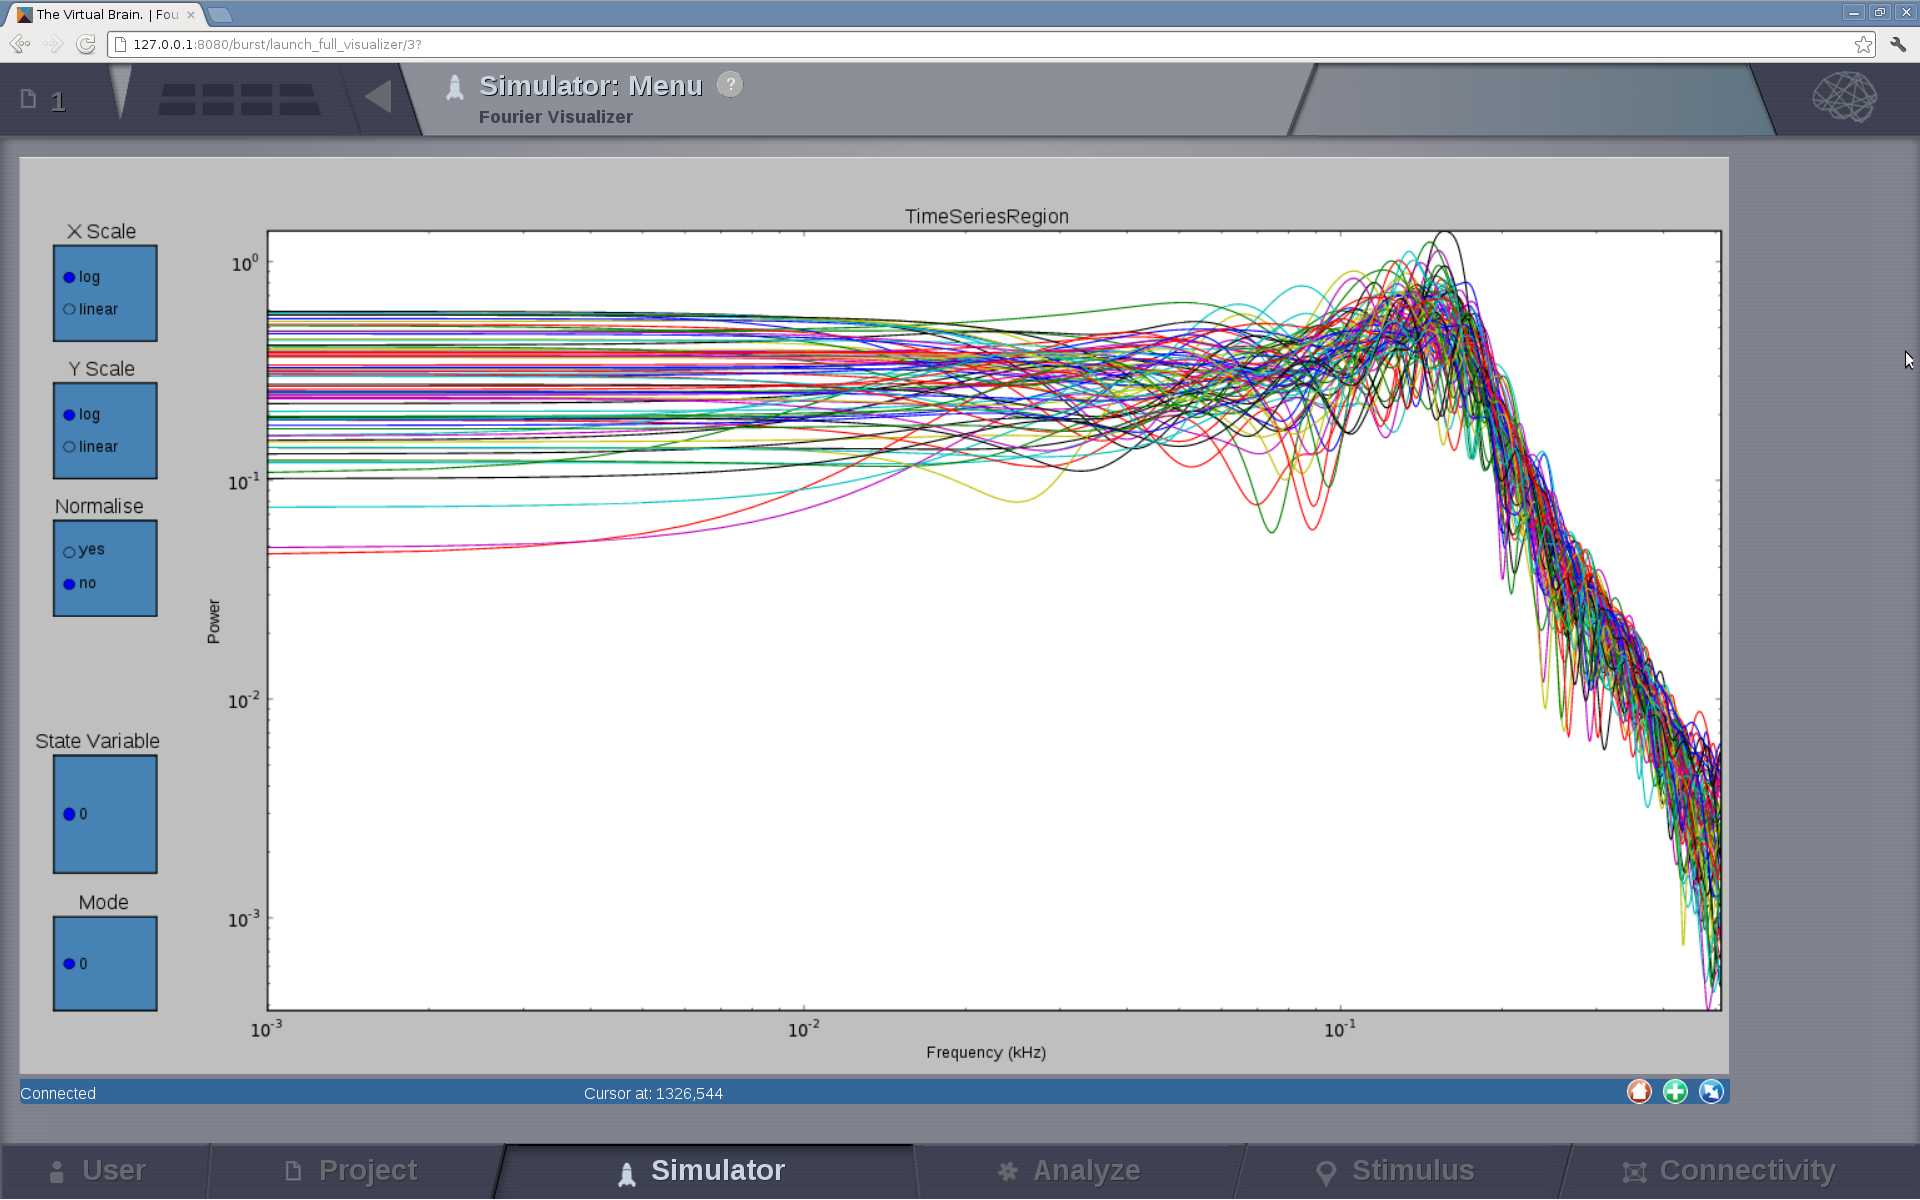
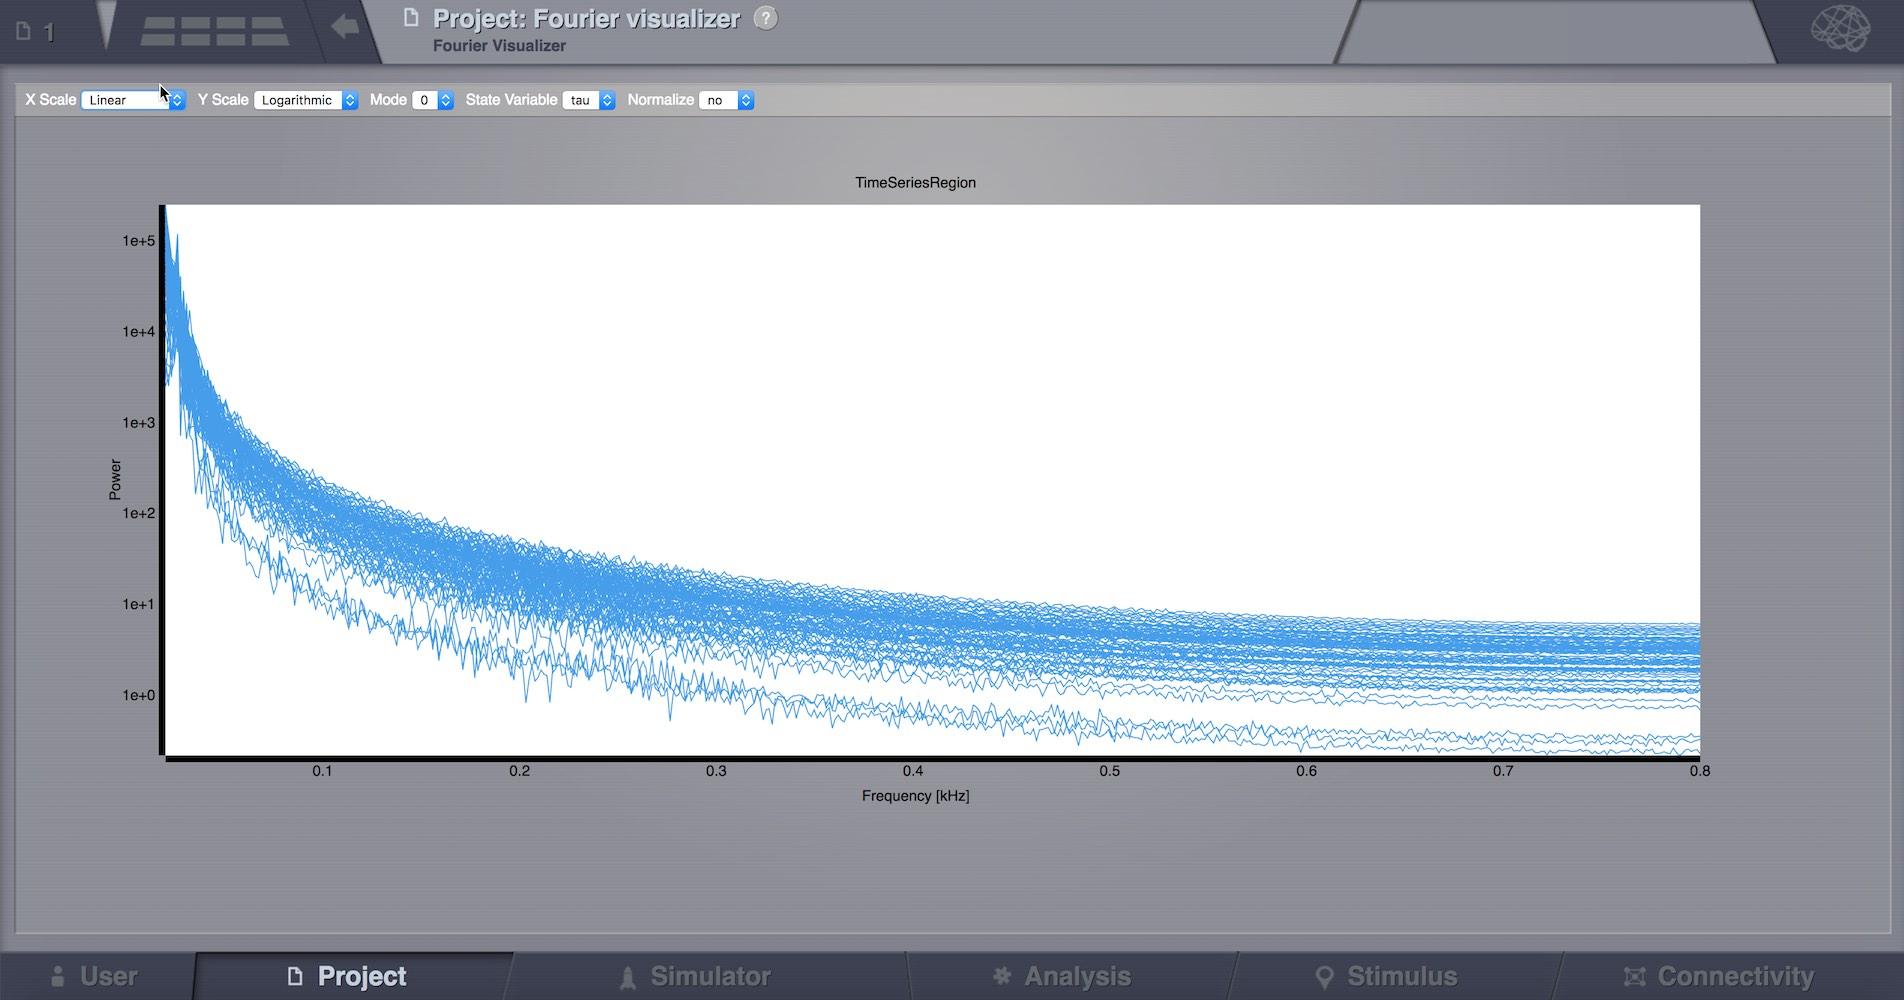
TVB-2256 Update FFT screenshot in user manual
git-svn-id: https://repo.thevirtualbrain.org/svn/tvb/trunk/tvb_documentation@8353 1c0e02f0-7929-43c0-8fb3-3293bf43b0d1

diff --git a/manuals/UserGuide/UserGuide-UI_Simulator-Visualizers.rst b/manuals/UserGuide/UserGuide-UI_Simulator-Visualizers.rst
@@ -528,7 +528,11 @@ As the correlation matrix is symmetric, only half is actually displayed.
 Fourier Spectrum Visualizer
 ~~~~~~~~~~~~~~~~~~~~~~~~~~~
 
-Plots the power spectrum of each node time-series.
+Plots the power spectrum of all nodes in a time-series.
+
+From the top bar, you can choose the scale (logarithmic or linear) and when the resulted Timeseries
+has multiple modes and State variables, choose which one to display.
+After you change a selection in this top bar, the viewer will automatically refresh.
 
 .. figure:: screenshots/visualizer_fft.jpg
    :width: 90%
